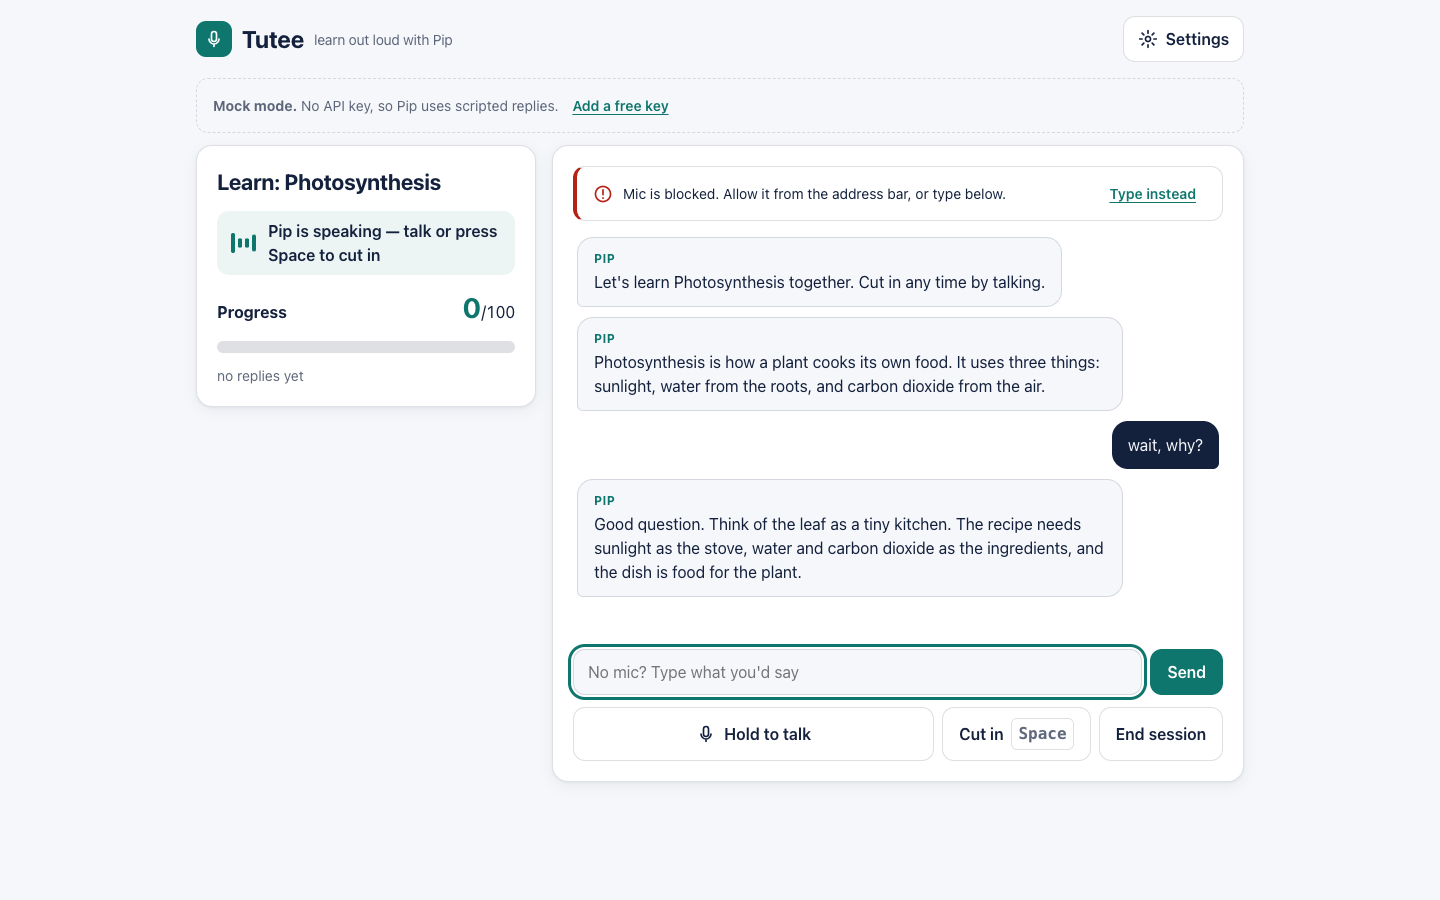
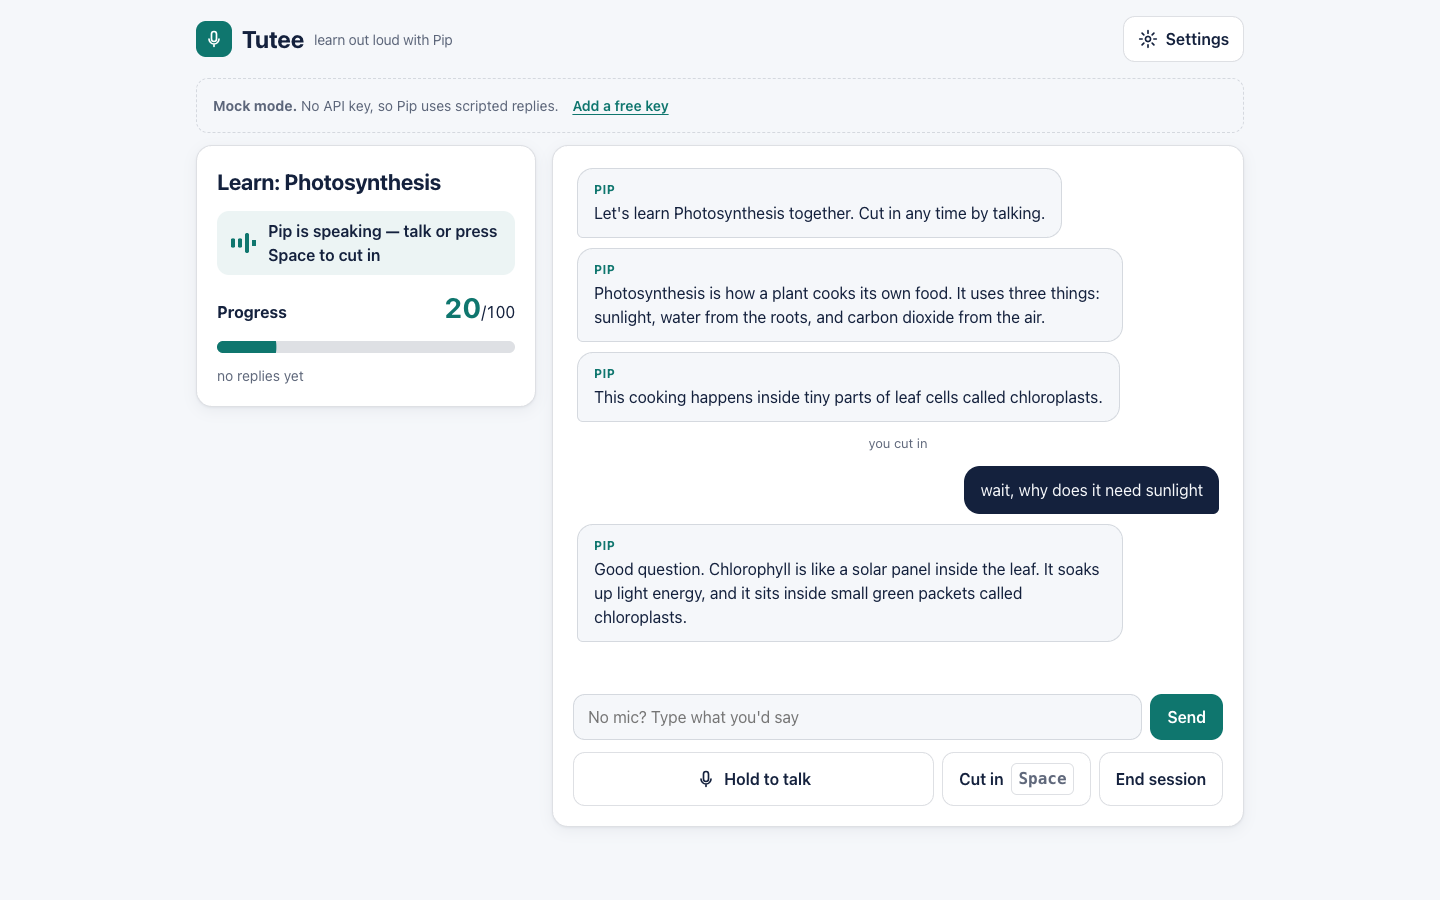
Ignore noise cut-ins, revalidate cached files, refresh screenshots
- a lone 'um' no longer stops Pip: cut in on 2+ words or a stop word (wait, ruko, ...)
- service worker fetches with cache: no-cache so edited files are never served stale
- shots/ refreshed at 360/768/1440 (mock mode, fake Web Speech for interim buzz)

diff --git a/sw.js b/sw.js
@@ -1,7 +1,7 @@
 // Offline cache for the static app so mock mode works with no network. Same-origin GETs only:
 // API calls (Groq, Gemini) are cross-origin POSTs and always go straight to the network, never cached.
 // Network first, cache as fallback, so an online reload always gets fresh files. Bump VERSION when FILES changes.
-const VERSION = "tutee-v1.0";
+const VERSION = "tutee-v1.0.1";
 const FILES = [
   "./", "index.html", "style.css", "app.js", "config.js", "topics.js", "provider.js", "turn.js", "tts.js", "jargon.js",
   "asr/index.js", "asr/webspeech.js", "asr/groq-whisper.js", "modes/learn.js", "modes/teach.js", "modes/card.js",
@@ -15,7 +15,7 @@ self.addEventListener("activate", (e) => e.waitUntil(
 self.addEventListener("fetch", (e) => {
   const u = new URL(e.request.url);
   if (e.request.method !== "GET" || u.origin !== location.origin) return; // APIs and anything else: browser default
-  e.respondWith(fetch(e.request).then((r) => {
+  e.respondWith(fetch(e.request, { cache: "no-cache" }).then((r) => { // revalidate, so an edited file is never served stale
     if (r.ok) { const copy = r.clone(); caches.open(VERSION).then((c) => c.put(e.request, copy)); }
     return r;
   }).catch(() => caches.match(e.request, { ignoreSearch: true }).then((r) => r || caches.match("index.html"))));

diff --git a/app.js b/app.js
@@ -111,9 +111,11 @@ function bargeIn() {
 // ---------- turn handling ----------
 function onAsr(r) {
   S.resultAt = performance.now();
-  if (tts.speaking() && (r.final || r.interim).trim()) bargeIn(); // only reachable with headphones on
+  if (tts.speaking() && isCutIn(r.final || r.interim)) bargeIn(); // only reachable with headphones on
   S.turn.result(r);
 }
+// A cough or a lone "um" shouldn't stop Pip: cut in on 2+ words, or one clear stop word.
+const isCutIn = (t) => t.trim().split(/\s+/).length >= 2 || /^(wait|stop|sorry|hold|ruko|रुको|रुकिए|suno|सुनो)(?=\s|$)/i.test(t.trim());
 function onInterim(text) {
   $("#live").textContent = text;
   if (S.mode === "teach" && !S.busy) tryBuzz(text);
